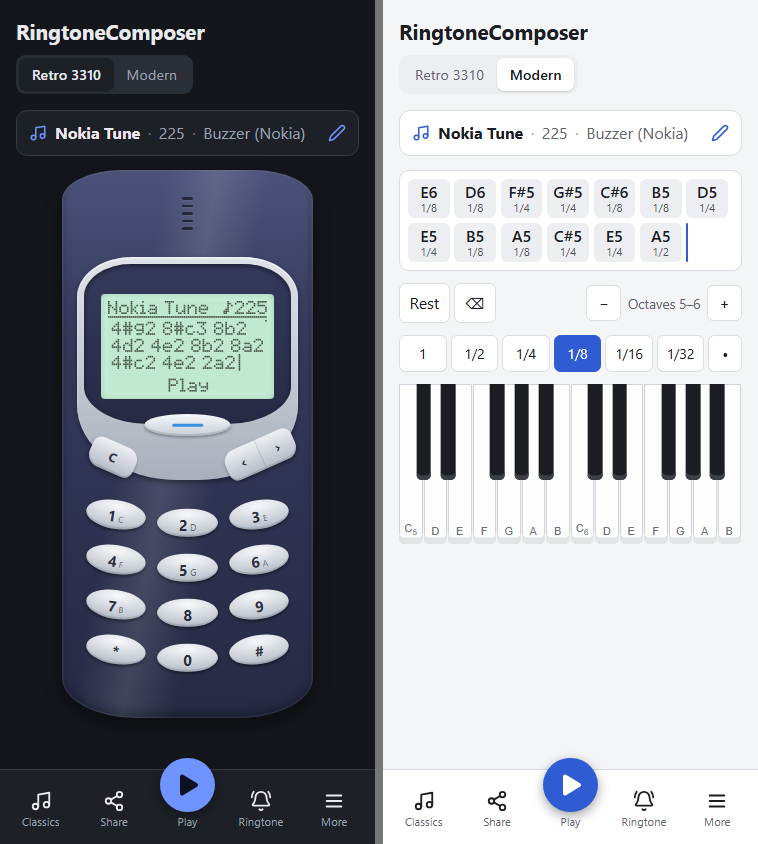
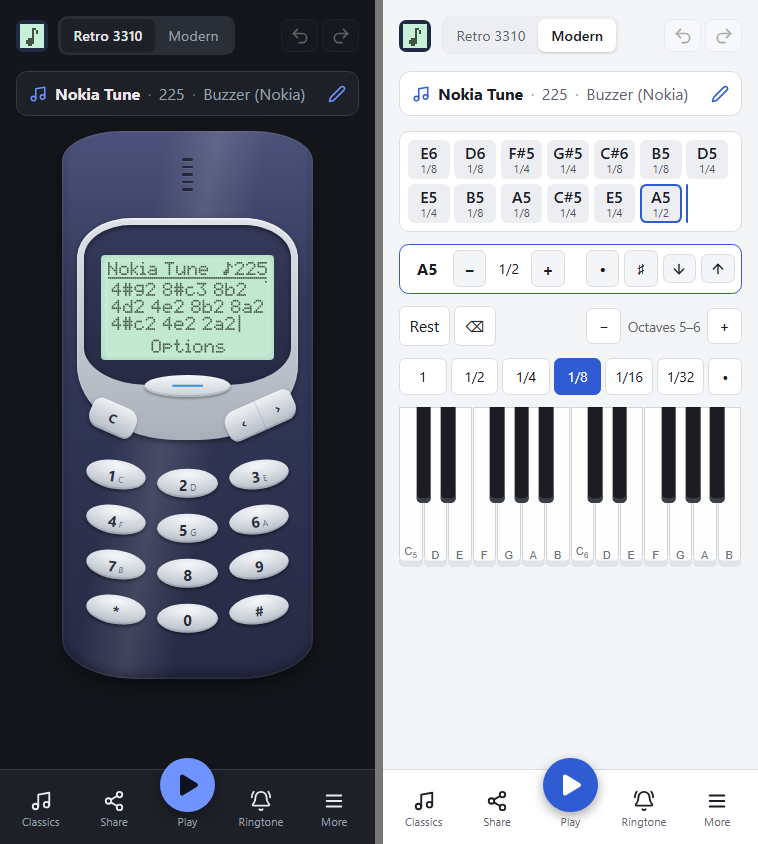
Fit the header on one line on phones
The app icon replaces the visible title (kept as a visually hidden h1
for screen readers and search engines); the name becomes the title of
the More menu. Mode tabs never wrap; on very narrow phones the icon
and the note name of the edit bar give way. SVG arrows in the note
editor. Updated README screenshot and social preview.

diff --git a/src/App.svelte b/src/App.svelte
@@ -15,6 +15,9 @@
 
   const MODES: Mode[] = ['retro', 'modern'];
 
+  /** App icon (the pixel note on an LCD), also used for the PWA icons. */
+  const LOGO = `${import.meta.env.BASE_URL}favicon.svg`;
+
   const composition = new Composition();
   let mode = $state<Mode>(
     readSetting('mode') === 'modern' ? 'modern' : 'retro',
@@ -67,7 +70,19 @@
 
 <main>
   <header>
-    <h1>RingtoneComposer</h1>
+    <!-- The name is in the "More" menu; kept here for screen readers and search engines. -->
+    <h1 class="visually-hidden">RingtoneComposer</h1>
+    <img class="logo" src={LOGO} alt="" width="32" height="32" />
+    <div class="modes" role="tablist" aria-label={i18n.t.app.modes}>
+      {#each MODES as id (id)}
+        <button
+          type="button"
+          role="tab"
+          aria-selected={mode === id}
+          onclick={() => selectMode(id)}>{i18n.t.app[id]}</button
+        >
+      {/each}
+    </div>
     <div class="history">
       <button
         type="button"
@@ -85,16 +100,6 @@
         onclick={() => composition.redo()}
         ><Icon name="redo" size={20} /></button
       >
-    </div>
-    <div class="modes" role="tablist" aria-label={i18n.t.app.modes}>
-      {#each MODES as id (id)}
-        <button
-          type="button"
-          role="tab"
-          aria-selected={mode === id}
-          onclick={() => selectMode(id)}>{i18n.t.app[id]}</button
-        >
-      {/each}
     </div>
   </header>
 
@@ -121,24 +126,30 @@
     margin-bottom: 0.9rem;
   }
 
+  /* One line on phones: icon, mode tabs, then undo / redo on the right. */
   header {
     display: flex;
-    flex-wrap: wrap;
     align-items: center;
-    justify-content: space-between;
-    gap: 0.5rem 1rem;
+    gap: 0.6rem;
     margin-bottom: 1rem;
   }
 
-  h1 {
-    flex: 1;
-    margin: 0;
-    font-size: 1.3rem;
+  .logo {
+    flex-shrink: 0;
+    border-radius: 0.45rem;
+  }
+
+  /* Very narrow phones: the icon gives way to the tabs and undo / redo. */
+  @media (max-width: 22.5rem) {
+    .logo {
+      display: none;
+    }
   }
 
   .history {
     display: flex;
     gap: 0.25rem;
+    margin-left: auto;
   }
 
   .history button {
@@ -175,6 +186,7 @@
     background: transparent;
     color: var(--muted);
     cursor: pointer;
+    white-space: nowrap;
   }
 
   .modes button[aria-selected='true'] {

diff --git a/src/ui/modern/NoteEditor.svelte b/src/ui/modern/NoteEditor.svelte
@@ -12,6 +12,7 @@
   } from '../../core/melody';
   import { i18n } from '../../i18n/i18n.svelte';
   import type { Composition } from '../shared/composition.svelte';
+  import Icon from '../shared/Icon.svelte';
   import { durationLabel, noteName } from './format';
 
   interface Props {
@@ -71,14 +72,15 @@
       aria-label={t.octaveDown}
       disabled={note.kind !== 'tone' || note.octave <= MIN_EDIT_OCTAVE}
       onclick={() =>
-        update((n) => (n.kind === 'tone' ? shiftOctave(n, -1) : n))}>↓</button
+        update((n) => (n.kind === 'tone' ? shiftOctave(n, -1) : n))}
+      ><Icon name="arrowDown" size={16} /></button
     >
     <button
       type="button"
       aria-label={t.octaveUp}
       disabled={note.kind !== 'tone' || note.octave >= MAX_EDIT_OCTAVE}
       onclick={() => update((n) => (n.kind === 'tone' ? shiftOctave(n, 1) : n))}
-      >↑</button
+      ><Icon name="arrowUp" size={16} /></button
     >
   </div>
 {/if}
@@ -114,6 +116,8 @@
   }
 
   button {
+    display: grid;
+    place-items: center;
     min-width: 2.1rem;
     padding: 0.35rem 0.45rem;
     font: inherit;
@@ -124,6 +128,18 @@
     color: var(--text);
     cursor: pointer;
     touch-action: manipulation;
+  }
+
+  /* Very narrow phones: the current note is already outlined in the score. */
+  @media (max-width: 22.5rem) {
+    .name {
+      display: none;
+    }
+
+    button {
+      min-width: 1.9rem;
+      padding-inline: 0.3rem;
+    }
   }
 
   button[aria-pressed='true'] {

diff --git a/src/ui/shared/Icon.svelte b/src/ui/shared/Icon.svelte
@@ -19,6 +19,8 @@
     stop: '<rect x="5" y="5" width="14" height="14" rx="2" fill="currentColor"/>',
     undo: '<path d="M9 14 4 9l5-5"/><path d="M4 9h10.5a5.5 5.5 0 0 1 5.5 5.5 5.5 5.5 0 0 1-5.5 5.5H11"/>',
     redo: '<path d="m15 14 5-5-5-5"/><path d="M20 9H9.5A5.5 5.5 0 0 0 4 14.5 5.5 5.5 0 0 0 9.5 20H13"/>',
+    arrowDown: '<path d="M12 5v14"/><path d="m19 12-7 7-7-7"/>',
+    arrowUp: '<path d="m5 12 7-7 7 7"/><path d="M12 19V5"/>',
     menu: '<path d="M4 6h16"/><path d="M4 12h16"/><path d="M4 18h16"/>',
     pencil:
       '<path d="M21.174 6.812a1 1 0 0 0-3.986-3.987L3.842 16.174a2 2 0 0 0-.5.83l-1.321 4.352a.5.5 0 0 0 .623.622l4.353-1.32a2 2 0 0 0 .83-.497z"/>',

diff --git a/src/app.css b/src/app.css
@@ -63,6 +63,19 @@
   box-sizing: border-box;
 }
 
+/* Hidden on screen, still read by screen readers and search engines. */
+.visually-hidden {
+  position: absolute;
+  width: 1px;
+  height: 1px;
+  margin: -1px;
+  padding: 0;
+  overflow: hidden;
+  clip-path: inset(50%);
+  white-space: nowrap;
+  border: 0;
+}
+
 body {
   margin: 0;
   min-height: 100dvh;

diff --git a/src/ui/shared/MoreMenu.svelte b/src/ui/shared/MoreMenu.svelte
@@ -48,7 +48,7 @@
   </button>
 {/snippet}
 
-<Dialog bind:open title={t.title} placement="side">
+<Dialog bind:open title="RingtoneComposer" placement="side">
   <nav>
     {@render item('text', t.rtttl, () => show(() => (rtttlOpen = true)))}
     {@render item('keypad', t.keys, () => show(() => (keysOpen = true)))}

diff --git a/src/i18n/en.ts b/src/i18n/en.ts
@@ -24,7 +24,6 @@ export const en: Messages = {
     more: 'More',
   },
   menu: {
-    title: 'More',
     rtttl: 'RTTTL text',
     keys: 'Nokia keys',
     help: 'Help',

diff --git a/src/i18n/fr.ts b/src/i18n/fr.ts
@@ -26,7 +26,6 @@ export const fr = {
     more: 'Plus',
   },
   menu: {
-    title: 'Plus',
     rtttl: 'Texte RTTTL',
     keys: 'Touches Nokia',
     help: 'Aide',

diff --git a/AGENTS.md b/AGENTS.md
@@ -95,7 +95,7 @@ Before considering a task done, `npm run verify` must pass. The GitHub Actions C
 ## Conventions
 
 - **Language:** code, identifiers and comments are in English. Documentation is in English, with a French version next to it (`README.md` / `README.fr.md`, `docs/x.md` / `docs/x.fr.md`): keep both in sync when you change one. `AGENTS.md` and `CLAUDE.md` exist in English only, so that agents have a single source of truth; so do the GitHub community files (`CONTRIBUTING.md`, `CODE_OF_CONDUCT.md`, `SECURITY.md`, issue and pull request templates in `.github/`) and `CHANGELOG.md`.
-- **Screen layout (mobile first):** a minimal header (title + mode), a one-line melody summary (name · tempo · instrument) that opens the settings, the composition area, and a fixed bottom bar (Classics, Share, **Play** in the center, Ringtone, More). Undo / redo sit in the header. Rare actions (RTTTL text, Nokia keys, help, clear all, theme, language) go into the "More" menu. In modern mode, the bar under the score edits the current note (the one before the cursor), like keys 8 / 9 / * / # in retro mode. Do not add permanent blocks back under the composition area.
+- **Screen layout (mobile first):** a one-line header (app icon, mode tabs, undo / redo; the name is a visually hidden `<h1>` and the title of the "More" menu), a one-line melody summary (name · tempo · instrument) that opens the settings, the composition area, and a fixed bottom bar (Classics, Share, **Play** in the center, Ringtone, More). Rare actions (RTTTL text, Nokia keys, help, clear all, theme, language) go into the "More" menu. In modern mode, the bar under the score edits the current note (the one before the cursor), like keys 8 / 9 / * / # in retro mode. Do not add permanent blocks back under the composition area.
 - **Icons:** Lucide set copied into `ui/shared/Icon.svelte` (no dependency). The "Share" icon follows the platform convention (`ui/shared/platform.ts`).
 - **Interface texts:** never hard-coded in components. Add the key to `src/i18n/fr.ts` (the reference) **and** to `src/i18n/en.ts`: TypeScript and a test check that both dictionaries have the same keys. Use them through `i18n.t.…` (`src/i18n/i18n.svelte.ts`). The core (`core/`) contains no displayed text: for example, RTTTL parser errors carry a `code` that the UI translates. By default the app uses the browser language (French if it starts with `fr`, English otherwise); the user's choice is remembered.
 - **Colors:** CSS lives in the components (scoped). Colors **only through the tokens** of `src/app.css` (`--bg`, `--surface`, `--text`, `--accent`…), never hard-coded, so that the light and dark themes work. Three states: system (no `data-theme`), `data-theme="light"` and `data-theme="dark"` on `<html>` (`ui/shared/theme.svelte.ts`); the dark values exist twice in `app.css` and must stay in sync. Exception: the 3310 phone keeps its own colors in both themes.

diff --git a/CHANGELOG.md b/CHANGELOG.md
@@ -15,6 +15,7 @@ The format follows [Keep a Changelog](https://keepachangelog.com/en/1.1.0/), and
 - In the Options menu lists, the scroll key works like the 3310 rocker: `›` goes up, `‹` goes down (on the Tempo screen, `›` is faster).
 - A long press on the Navi key plays or stops the melody; Enter is the Navi key and Space plays on a computer keyboard.
 - "Clear all" no longer asks for confirmation: it can be undone.
+- One-line header on phones: the app icon replaces the title, which moves to the top of the "More" menu.
 
 ## [1.0.0] - 2026-10-11
 
